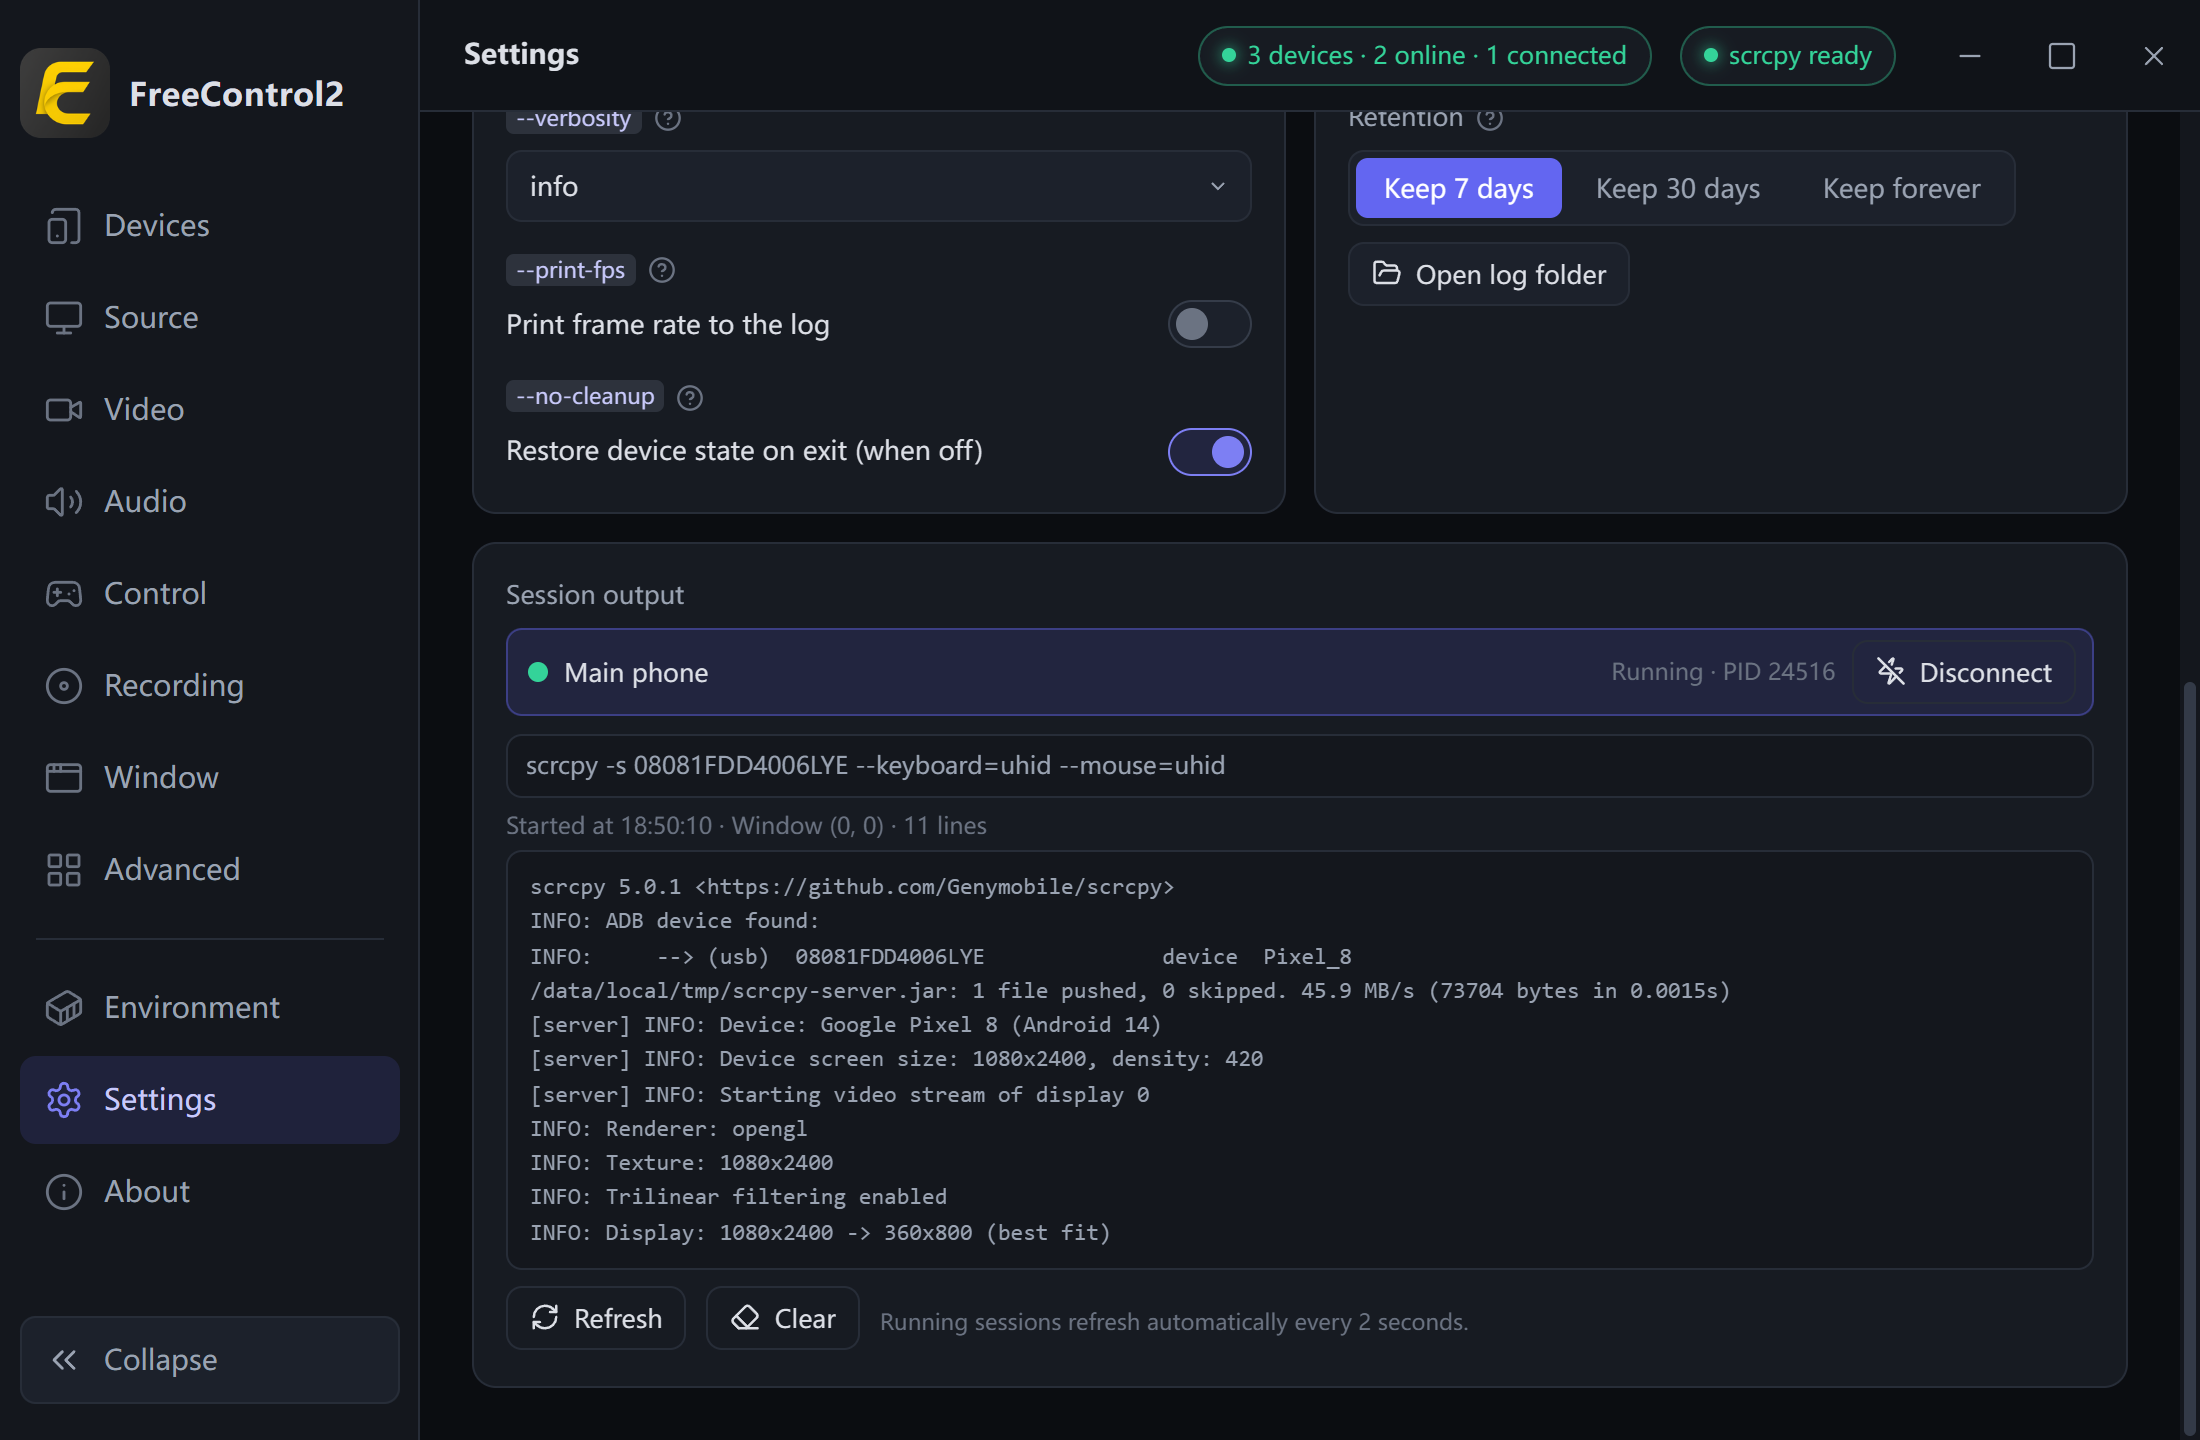
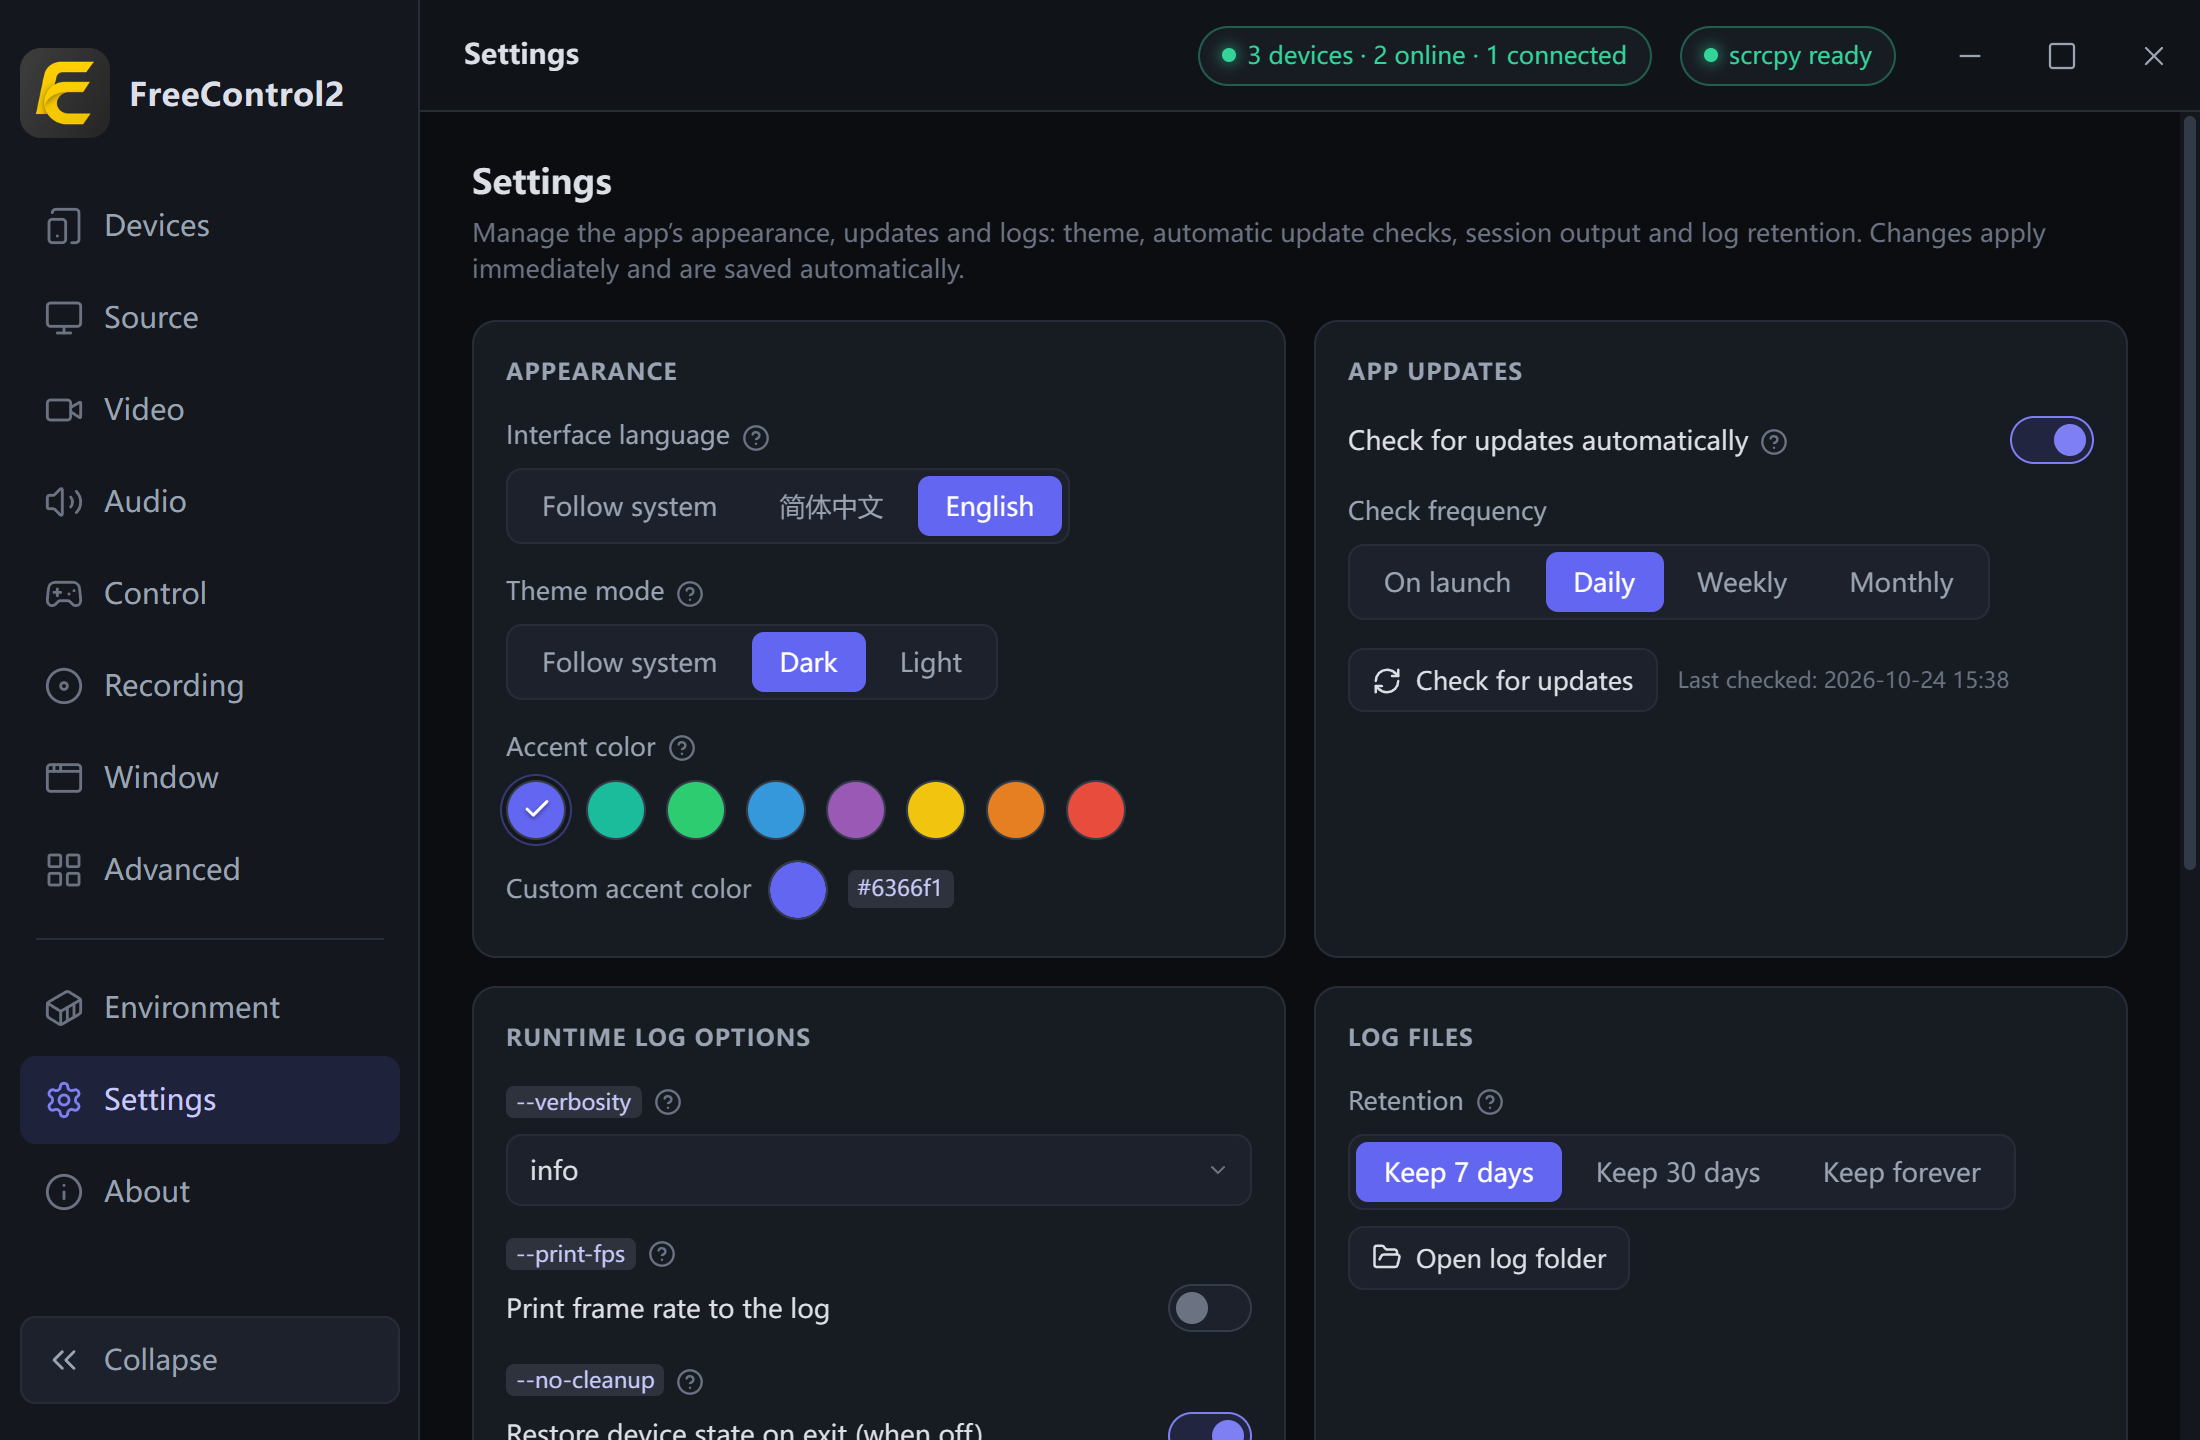
1.2.0：版本号、更新日志与对外呈现同步
- 更新日志补上 macOS、界面语言、无线配对与添加设备等变化
- README 与官网的功能条目对齐，界面语言与无线配对都有了落点
- 设置页截图重拍，配文改成图上实际可见的内容

diff --git a/website/src/lib/i18n.ts b/website/src/lib/i18n.ts
@@ -39,6 +39,7 @@ const zh = {
     subtitle: '把 scrcpy 的能力做成可视化的壳。界面上能改的，最终都落到配置里。',
     items: [
       { icon: 'TabletSmartphone', name: '设备清单', desc: '每台设备一个别名，映射到 USB 序列号或 IP:端口，可增删改，在线状态实时可见' },
+      { icon: 'Wifi', name: '无线配对与发现', desc: '用配对码完成一次配对，点一下即列出局域网里已开启无线调试的设备' },
       { icon: 'SlidersHorizontal', name: '参数面板', desc: '六组常用选项做成控件，逐项对应 scrcpy 长选项名；每个参数项都能点开「?」看详情，另有自定义参数框' },
       { icon: 'Layers', name: '设备级参数覆盖', desc: '单台设备一套参数，可整体启用或停用' },
       { icon: 'Plug', name: '连接控制', desc: '单台或全部连接 / 断开，多台设备可同时投屏，进程与输出由程序托管' },
@@ -47,6 +48,7 @@ const zh = {
       { icon: 'ScrollText', name: '日志', desc: '逐会话输出持久化，保留 7 天 / 30 天 / 永久（卡片在「设置」页）' },
       { icon: 'Terminal', name: '命令预览', desc: '底部显示将执行的完整命令，可一键复制' },
       { icon: 'Palette', name: '外观', desc: '深浅色主题与主题色可切换（默认跟随系统），侧栏可收成图标栏' },
+      { icon: 'Languages', name: '界面语言', desc: '设置页可在简体中文与英文之间切换，也可跟随系统' },
     ],
   },
   compare: {
@@ -208,6 +210,7 @@ const en: Dict = {
     subtitle: 'A visual shell around what scrcpy can do. Everything you change in the UI lands in the config.',
     items: [
       { icon: 'TabletSmartphone', name: 'Device list', desc: 'One alias per device, mapped to a USB serial or IP:port; add, rename and remove, with live online/connected status' },
+      { icon: 'Wifi', name: 'Wireless pairing and discovery', desc: 'Pair once with the on-device code, then list the devices with wireless debugging on in one click' },
       { icon: 'SlidersHorizontal', name: 'Parameter panels', desc: 'The common options of six groups as controls, each mapped to its scrcpy long option name; every field has a "?" detail, plus a custom-arguments box' },
       { icon: 'Layers', name: 'Per-device overrides', desc: "A device's own parameter set, switched on or off as a whole" },
       { icon: 'Plug', name: 'Connection control', desc: 'Connect or disconnect one device or all of them; several devices can mirror at once, with processes and output managed by the app' },
@@ -216,6 +219,7 @@ const en: Dict = {
       { icon: 'ScrollText', name: 'Logs', desc: 'Per-session output persisted, kept for 7 days / 30 days / forever (the cards live on the Settings page)' },
       { icon: 'Terminal', name: 'Command preview', desc: 'The exact command about to run, shown at the bottom and copyable' },
       { icon: 'Palette', name: 'Appearance', desc: 'Light/dark themes and accent color, following the system by default, with a sidebar that collapses to an icon rail' },
+      { icon: 'Languages', name: 'Interface language', desc: 'Switch the UI between Chinese and English on the Settings page, or follow the system' },
     ],
   },
   compare: {

diff --git a/ui-design/launcher-prototype.html b/ui-design/launcher-prototype.html
@@ -2706,9 +2706,9 @@
      正式实现中：该值由 Tauri 的 getVersion()（取 tauri.conf.json 的构建期版本）下发，
      前端一律通过该 API 读取，页面里不得写版本字面量（见 about-page design D5）。
      ============================================================ */
-  const APP_VERSION = '1.1.0';
+  const APP_VERSION = '1.2.0';
   // 原型演示用的模拟最新版；产品侧由 GitHub 最新正式发行下发，不写死在界面里。
-  const UPDATE_LATEST_VERSION = '1.1.1';
+  const UPDATE_LATEST_VERSION = '1.2.1';
 
   // 每台设备的参数覆盖（仅覆盖的字段）
   const overrides = {};

diff --git a/Update.en.md b/Update.en.md
@@ -2,6 +2,25 @@
 
 <a href="Update.md">中文</a> | English
 
+## v1.2.0
+
+### New
+
+- A macOS build: one dmg for Apple silicon and one for Intel; open it and drag the app into "Applications" to use it, allowing it through on first launch as the docs describe. Both "Check for updates" in "About" and the website downloads pick the build for your architecture.
+- Interface language: switch the UI between Simplified Chinese and English on the Settings page, or follow the system. Headings, buttons and hints switch right away, with no restart.
+- Wireless pairing and discovery: pair once with the pairing code, then list the devices on your network that have wireless debugging on in one click; the connection port is worked out by the app.
+- Adding a device is one dialog now: USB, a manual address, a network scan and a pairing code all live in the same place, and you can name the device or each scan result up front.
+
+### Improved
+
+- Parameter dropdowns no longer use the system popup list but a list drawn inside the page: long lists scroll and the keyboard works, and the parameter help panel sits above the list instead of being covered by it.
+- Device status now comes straight from the adb service: devices going online or offline and connection changes show up right away, and the actual online state is checked once more before connecting.
+- Hover feedback and panel entrance timings were evened out, and switching between dark and light cross-fades the page once — not on first apply, and not with reduced motion on.
+
+### Fixed
+
+- After switching the runtime to another directory, one click on "Connect" now succeeds, with no repeated retries.
+
 ## v1.1.0
 
 ### New

diff --git a/Update.md b/Update.md
@@ -2,6 +2,25 @@
 
 中文 | <a href="Update.en.md">English</a>
 
+## v1.2.0
+
+### 新增
+
+- macOS 版本：Apple 芯片与 Intel 各一份 dmg，打开后把应用拖进「应用程序」即可使用，首次打开需按文档放行；「关于」里的检查更新与官网下载都按架构给出对应的一份。
+- 界面语言：设置页可在简体中文与英文之间切换，也可跟随系统；切换后标题、按钮与提示随即换成该语言，不需要重启。
+- 无线配对与发现：用配对码完成一次配对，点一下就能列出局域网里已开启无线调试的设备；配对后的连接端口由程序自行解析。
+- 添加设备合并为一个弹窗：USB、手动填写地址、局域网扫描与配对码四种方式在同一处切换，可为设备或每条扫描结果先起别名。
+
+### 改进
+
+- 参数下拉不再用系统自带的弹出列表，改为界面内自绘：选项多时可以滚动，也能用键盘选择；参数说明的浮层压在其上，不会被列表挡住。
+- 设备状态改为由 adb 服务端直接告知：设备上下线与连接变化即时反映，连接前还会再核对一次实际在线状态。
+- 悬停反馈与面板入场的时长调顺，切换深色 / 浅色时整页淡入一次（首次应用与「减少动态效果」下不播）。
+
+### 修复
+
+- 把运行环境换成另一份目录后，点一次「连接」就能成功，不再需要反复重试。
+
 ## v1.1.0
 
 ### 新增

diff --git a/README.en.md b/README.en.md
@@ -32,6 +32,7 @@
 - **Logs** — per-session output persisted, kept for 7 days / 30 days / forever (the cards live on the Settings page)
 - **Command preview** — the exact command about to run, shown at the bottom and copyable
 - **Appearance** — light/dark themes and accent color, following the system by default, with a sidebar that collapses to an icon rail
+- **Interface language** — switch the UI between Chinese and English on the Settings page, or follow the system
 
 ## Interface
 
@@ -47,9 +48,9 @@
 
 <img src="assets/screenshots/en/environment.png" alt="Runtime page" />
 
-**Settings** — log settings and session output:
+**Settings** — appearance, interface language, updates and log settings:
 
-<img src="assets/screenshots/en/logs.png" alt="Settings page: log settings and session output" />
+<img src="assets/screenshots/en/logs.png" alt="Settings page: appearance, interface language, updates and log settings" />
 
 ## Quick Start
 

diff --git a/README.md b/README.md
@@ -31,6 +31,7 @@
 - **日志** —— 逐会话输出持久化，保留 7 天 / 30 天 / 永久（卡片在「设置」页）
 - **命令预览** —— 底部显示将执行的完整命令，可一键复制
 - **外观** —— 深浅色主题与主题色可切换（默认跟随系统），侧栏可收成图标栏
+- **界面语言** —— 设置页可在简体中文与英文之间切换，也可跟随系统
 
 ## 界面
 
@@ -46,9 +47,9 @@
 
 <img src="assets/screenshots/environment.png" alt="运行环境页" />
 
-**设置** —— 日志设置与会话输出：
+**设置** —— 外观、界面语言、自动更新与日志设置：
 
-<img src="assets/screenshots/logs.png" alt="设置页：日志设置与会话输出" />
+<img src="assets/screenshots/logs.png" alt="设置页：外观、界面语言、自动更新与日志设置" />
 
 ## 快速开始
 
